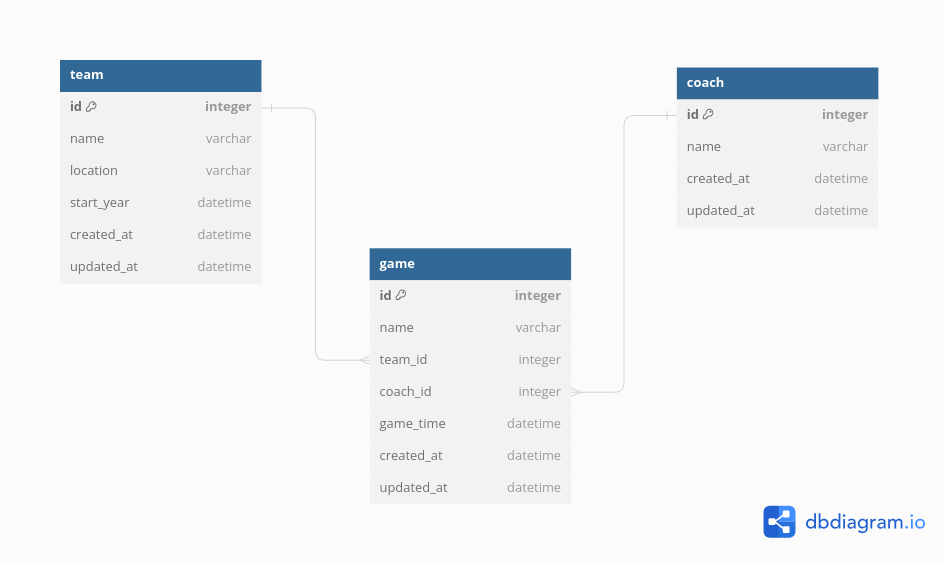
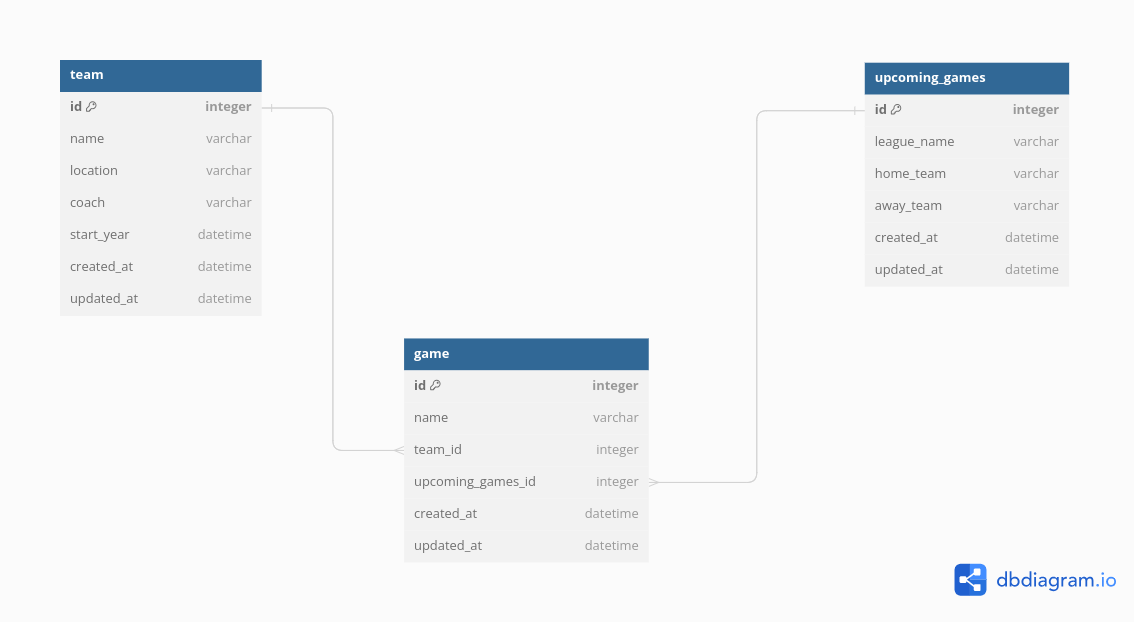
updated models

diff --git a/client/src/components/Coachform.js b/client/src/components/Coachform.js
@@ -1,48 +1,48 @@
-import React, { useState, useEffect } from 'react';
-import axios from 'axios';
+// import React, { useState, useEffect } from 'react';
+// import axios from 'axios';
 
-function NewCoachForm() {
-  const [name, setName] = useState('');
-  const [CoachOptions, setCoachOptions] = useState([]);
-// clear input field
+// function NewCoachForm() {
+//   const [name, setName] = useState('');
+//   const [CoachOptions, setCoachOptions] = useState([]);
+// // clear input field
 
  
 
-  useEffect(() => {
+//   useEffect(() => {
   
-    axios.get('/coach')
-      .then(response => {
-        setCoachOptions(response.data);
-      })
-      .catch(error => {
-        console.error('Error fetching team data:', error);
-      });
-  }, []);
+//     axios.get('/coach')
+//       .then(response => {
+//         setCoachOptions(response.data);
+//       })
+//       .catch(error => {
+//         console.error('Error fetching team data:', error);
+//       });
+//   }, []);
 
-  const handleSubmit = (event) => {
-    event.preventDefault();
-    axios.post('/coach', { name })
-      .then(response => {
-        console.log('Coach created:', response.data);
-      })
-      .catch(error => {
-        console.error('Error creating Coach:', error);
-      });
-  };
-  return (
-    <form onSubmit={handleSubmit}>
-      <div>
-        <label>Name:</label>
-        <select value={name} onChange={(e) => setName(e.target.value)}>
-          <option value="">Select Name</option>
-          {CoachOptions.map(coach => (
-            <option key={coach.id} value={coach.name}>{coach.name}</option>
-          ))}
-        </select>
-      </div>
-      <button type="submit">Create Coach</button>
-    </form>
-  );
-          }
+//   const handleSubmit = (event) => {
+//     event.preventDefault();
+//     axios.post('/coach', { name })
+//       .then(response => {
+//         console.log('Coach created:', response.data);
+//       })
+//       .catch(error => {
+//         console.error('Error creating Coach:', error);
+//       });
+//   };
+//   return (
+//     <form onSubmit={handleSubmit}>
+//       <div>
+//         <label>Name:</label>
+//         <select value={name} onChange={(e) => setName(e.target.value)}>
+//           <option value="">Select Name</option>
+//           {CoachOptions.map(coach => (
+//             <option key={coach.id} value={coach.name}>{coach.name}</option>
+//           ))}
+//         </select>
+//       </div>
+//       <button type="submit">Create Coach</button>
+//     </form>
+//   );
+//           }
 
-export default NewCoachForm;
+// export default NewCoachForm;

diff --git a/server/seed.py b/server/seed.py
@@ -3,51 +3,32 @@ from app import app
 from faker import Faker
 from random import choice as rc
 from datetime import datetime, time
-from models import db, Team,Coach,Game,UpcomingGames
+from models import db, Team,Game,UpcomingGames
 
 fake = Faker()
 
 with app.app_context():
     # clear
     Team.query.delete()
-    Coach.query.delete()
     Game.query.delete()
-    UpcomingGames.query.delete()
+    # UpcomingGames.query.delete()
 # seed data for teams
     teams = [
-    {'name': "Mathare United", 'location': "Mathare"},
-    {'name': "Shabana FC", 'location': "Muranga"},
-    {'name': "Tusker United", 'location': "Thika"},
-    {'name': "Gor Mahia United", 'location': "Kisumu"},
-    {'name': "Sportpesa United", 'location': "Nairobi"},
-    {'name': "Bandari FC", 'location': "Bamburi"},
-    {'name': "Police FC", 'location': "Nyeri"},
-    {'name': "Posta Rangers", 'location': "Mombasa"},
-    {'name': "City Stars", 'location': "Garissa"},
-    {'name': "Kakamega Homeboys", 'location': "Kakamega"}
+    {'name': "Mathare United", 'location': "Mathare", 'coach': "James Mwangi"},
+    {'name': "Shabana FC", 'location': "Muranga", 'coach':"Grace Njeri"},
+    {'name': "Tusker United", 'location': "Thika", 'coach':"John Kimani" },
+    {'name': "Gor Mahia United", 'location': "Kisumu",'coach':"Wanjiku Kamau" },
+    {'name': "Sportpesa United", 'location': "Nairobi", 'coach': "Mercy Kiptoo"},
+    {'name': "Bandari FC", 'location': "Bamburi", 'coach':"Peter Omondi"},
+    {'name': "Police FC", 'location': "Nyeri",'coach':"Faith Wambui"},
+    {'name': "Posta Rangers", 'location': "Mombasa",'coach':"Kevin Mutua"},
+    {'name': "City Stars", 'location': "Garissa",'coach':"Catherine Achieng"},
+    {'name': "Kakamega Homeboys", 'location': "Kakamega",'coach': "Samuel Ndegwa"}
     ]
     for team in teams:
             new_team = Team(**team)
             new_team.start_year = fake.date_time().date()
             db.session.add(new_team)
-            db.session.commit()
-
-# seed data for coaches
-    coaches = [
-        {'name': "James Mwangi"},
-        {'name': "Grace Njeri"},
-        {'name': "John Kimani"},
-        {'name': "Wanjiku Kamau"},
-        {'name': "Mercy Kiptoo"},
-        {'name': "Peter Omondi"},
-        {'name': "Faith Wambui"},
-        {'name': "Kevin Mutua"},
-        {'name': "Catherine Achieng"},
-        {'name': "Samuel Ndegwa"}
-        ]
-    for coach in coaches:
-            new_coach = Coach(**coach)
-            db.session.add(new_coach)
             db.session.commit()
 
 # seed data for games
@@ -61,7 +42,13 @@ with app.app_context():
     for game in games:
             new_game = Game(**game)
             new_game.team_id = rc(Team.query.all()).id
-            new_game.coach_id = rc(Coach.query.all()).id
+            upcoming_games = UpcomingGames.query.all()
+            if upcoming_games:
+                # Randomly select an upcoming game
+                random_upcoming_game = rc(upcoming_games)
+                new_game.upcoming_games_id = random_upcoming_game.id
+            else:
+                print("No upcoming games available.")
             fake_time = fake.time_object()  # Get only the time part
             new_game.game_time = datetime.combine(datetime.today(), fake_time)
             db.session.add(new_game)

diff --git a/server/migrations/versions/2679a0a206e7_table.py b/server/migrations/versions/2679a0a206e7_table.py
@@ -1,8 +1,8 @@
-"""new table
+"""table
 
-Revision ID: c854b1599091
+Revision ID: 2679a0a206e7
 Revises: 
-Create Date: 2024-02-07 15:32:26.037461
+Create Date: 2024-02-08 10:24:31.885381
 
 """
 from alembic import op
@@ -10,7 +10,7 @@ import sqlalchemy as sa
 
 
 # revision identifiers, used by Alembic.
-revision = 'c854b1599091'
+revision = '2679a0a206e7'
 down_revision = None
 branch_labels = None
 depends_on = None
@@ -18,18 +18,12 @@ depends_on = None
 
 def upgrade():
     # ### commands auto generated by Alembic - please adjust! ###
-    op.create_table('coaches',
-    sa.Column('id', sa.Integer(), nullable=False),
-    sa.Column('name', sa.String(), nullable=True),
-    sa.Column('created_at', sa.DateTime(), server_default=sa.text('(CURRENT_TIMESTAMP)'), nullable=True),
-    sa.Column('updated_at', sa.DateTime(), nullable=True),
-    sa.PrimaryKeyConstraint('id')
-    )
     op.create_table('teams',
     sa.Column('id', sa.Integer(), nullable=False),
     sa.Column('name', sa.String(), nullable=True),
     sa.Column('location', sa.String(), nullable=True),
     sa.Column('start_year', sa.Date(), nullable=True),
+    sa.Column('coach', sa.String(), nullable=True),
     sa.Column('created_at', sa.DateTime(), server_default=sa.text('(CURRENT_TIMESTAMP)'), nullable=True),
     sa.Column('updated_at', sa.DateTime(), nullable=True),
     sa.PrimaryKeyConstraint('id')
@@ -48,12 +42,12 @@ def upgrade():
     sa.Column('id', sa.Integer(), nullable=False),
     sa.Column('name', sa.String(), nullable=True),
     sa.Column('team_id', sa.Integer(), nullable=True),
-    sa.Column('coach_id', sa.Integer(), nullable=True),
+    sa.Column('upcoming_games_id', sa.Integer(), nullable=True),
     sa.Column('game_time', sa.DateTime(), nullable=True),
     sa.Column('created_at', sa.DateTime(), server_default=sa.text('(CURRENT_TIMESTAMP)'), nullable=True),
     sa.Column('updated_at', sa.DateTime(), nullable=True),
-    sa.ForeignKeyConstraint(['coach_id'], ['coaches.id'], ),
     sa.ForeignKeyConstraint(['team_id'], ['teams.id'], ),
+    sa.ForeignKeyConstraint(['upcoming_games_id'], ['upcoming_games.id'], ),
     sa.PrimaryKeyConstraint('id')
     )
     # ### end Alembic commands ###
@@ -64,5 +58,4 @@ def downgrade():
     op.drop_table('games')
     op.drop_table('upcoming_games')
     op.drop_table('teams')
-    op.drop_table('coaches')
     # ### end Alembic commands ###

diff --git a/server/models.py b/server/models.py
@@ -12,41 +12,27 @@ class Team(db.Model,SerializerMixin):
     name = db.Column(db.String)
     location = db.Column(db.String)
     start_year = db.Column(db.Date)
+    coach = db.Column(db.String)
     created_at = db.Column(db.DateTime,server_default=db.func.now())
     updated_at = db.Column(db.DateTime, onupdate=db.func.now())
     # relationship to game
     games = db.relationship('Game', backref='team')
 
     def serialize(self):
-         return{'id': self.id,'name': self.name, 'location': self.location,  'start_year': self.start_year}
-    
-    
-
-
-class Coach(db.Model,SerializerMixin):
-    __tablename__ = 'coaches'
-    id = db.Column(db.Integer, primary_key=True)
-    name = db.Column(db.String)
-    created_at = db.Column(db.DateTime, server_default=db.func.now())
-    updated_at = db.Column(db.DateTime, onupdate=db.func.now())
-    # relationship to game
-    games = db.relationship('Game', backref='coach')
-
-    def serialize(self):
-        return {'id': self.id, 'name': self.name}
+         return{'id': self.id,'name': self.name, 'location': self.location,'coach':self.coach,  'start_year': self.start_year}
 
 class Game(db.Model, SerializerMixin):
     __tablename__ = 'games'
     id = db.Column(db.Integer, primary_key=True)
     name = db.Column(db.String)
     team_id = db.Column(db.Integer, db.ForeignKey('teams.id'))
-    coach_id = db.Column(db.Integer, db.ForeignKey('coaches.id'))
+    upcoming_games_id = db.Column(db.Integer, db.ForeignKey('upcoming_games.id'))
     game_time = db.Column(db.DateTime)
     created_at = db.Column(db.DateTime, server_default=db.func.now())
     updated_at = db.Column(db.DateTime, onupdate=db.func.now())
 
     def serialize(self):
-        return {'id': self.id, 'name':self.name, 'team_id': self.team_id, 'coach_id': self.coach_id, 'game_time': self.game_time.strftime('%Y-%m-%d, %I:%M %p') if self.game_time else None,}
+        return {'id': self.id, 'name':self.name, 'team_id': self.team_id,'game_time': self.game_time.strftime('%Y-%m-%d, %I:%M %p') if self.game_time else None,}
 
 class UpcomingGames(db.Model, SerializerMixin):
     __tablename__ = 'upcoming_games'

diff --git a/server/app.py b/server/app.py
@@ -3,7 +3,7 @@ from flask import Flask,make_response,request
 from flask_migrate import Migrate
 from flask_cors import CORS
 from flask_restful import Api,Resource
-from models import db,Team,Game,Coach,UpcomingGames
+from models import db,Team,Game,UpcomingGames
 from flask import jsonify
 from datetime import datetime
 
@@ -87,54 +87,6 @@ class TeamsByID(Resource):
         
 api.add_resource(TeamsByID, '/teams/<int:id>')
 
-class Coaches(Resource):
-    def get(self):
-        get_coach = [coach.serialize() for coach in Coach.query.all()]
-        response = make_response(jsonify(get_coach), 200)
-        return response
-    
-    def post(self):
-        data = request.get_json()
-        name = data['name']
-        
-        new_coach = Coach(name=name)
-        db.session.add(new_coach)
-        db.session.commit()
-        response = make_response(jsonify(new_coach.serialize()), 201)
-        return response
-    
-api.add_resource(Coaches, '/coach')
-class CoachByID(Resource):
-    def get(self, id):
-        coach = Coach.query.get(id)
-        if not coach:
-            return {'error':'coach does not exist'},404
-        else:
-            response = make_response(jsonify(coach.serialize()), 200)
-            return response
-    def delete(self, id):
-        coach = Coach.query.get(id)
-        if not coach:
-            return {'error':'coach does not exist'},404
-        else:
-            db.session.delete(coach)
-            db.session.commit()
-            response = make_response(jsonify({'message':'coach deleted'}), 200)
-            return response
-    def patch(self, id):
-        data = request.get_json()
-        name = data['name']
-
-        existing_coach = Coach.query.get(id)
-        if not existing_coach:
-            return {'error':'coach does not exist'},404
-        else:
-            existing_coach.name = name
-            db.session.commit()
-
-            response = make_response(jsonify(existing_coach.serialize()), 200)
-            return response
-api.add_resource(CoachByID, '/coach/<int:id>')
 
 class Games(Resource):
     def get(self):
